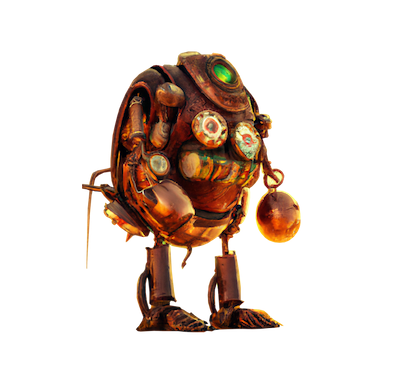
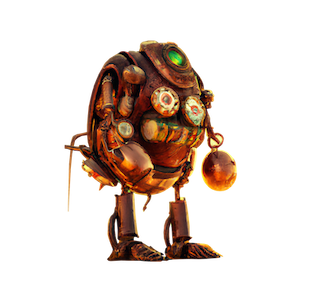
finalize crypto

diff --git a/post-quantum-cryptography/template/style.scss b/post-quantum-cryptography/template/style.scss
@@ -352,7 +352,7 @@ table {
 
 .robot {
   position: absolute;
-  bottom: 2em;
+  bottom: 110px;
   left: 1em;
   opacity: 0.6;
   z-index: 10;

diff --git a/post-quantum-cryptography/post-quantum.md b/post-quantum-cryptography/post-quantum.md
@@ -5,15 +5,15 @@ layout: true
 ---
 
 class: impact
-# Cryptographie post-quantique : les fondamentaux du numérique de demain.
+# Cryptographie post-quantique : les fondamentaux du numérique de demain
 .robot[![Robot color box](images/robot_box_color-250x250.png)]
 .balloon[![baloon](images/balloon_3.png)]
 .car[![car better than tesla](images/car_better_tan_tesla.png)]
 
-.center[.author[
+.author[
 ## Willy Malvault
 ![Logo devoxx France](images/logo-texte-devoxx-france-400.png)
-]]
+]
 
 ---
 .center[
@@ -139,8 +139,6 @@ class: impact
   `\(m = c^{sk}\ mod\ n\)`
 ]
 
---
-
 .col-4[
   Sign(sk, m)
 
@@ -152,8 +150,6 @@ class: impact
 
   OK if `\(hash(m)=h\)`
 ]
-
---
 
 .col-4[
 .mid-5[
@@ -202,7 +198,7 @@ class: impact, center, middle
 * Entanglement
 * No copy
     * Tricky error management
-    * Tricky network maangement
+    * Tricky network management
 
 ![Qubit](./images/Qubit-simple.png)
 ]
